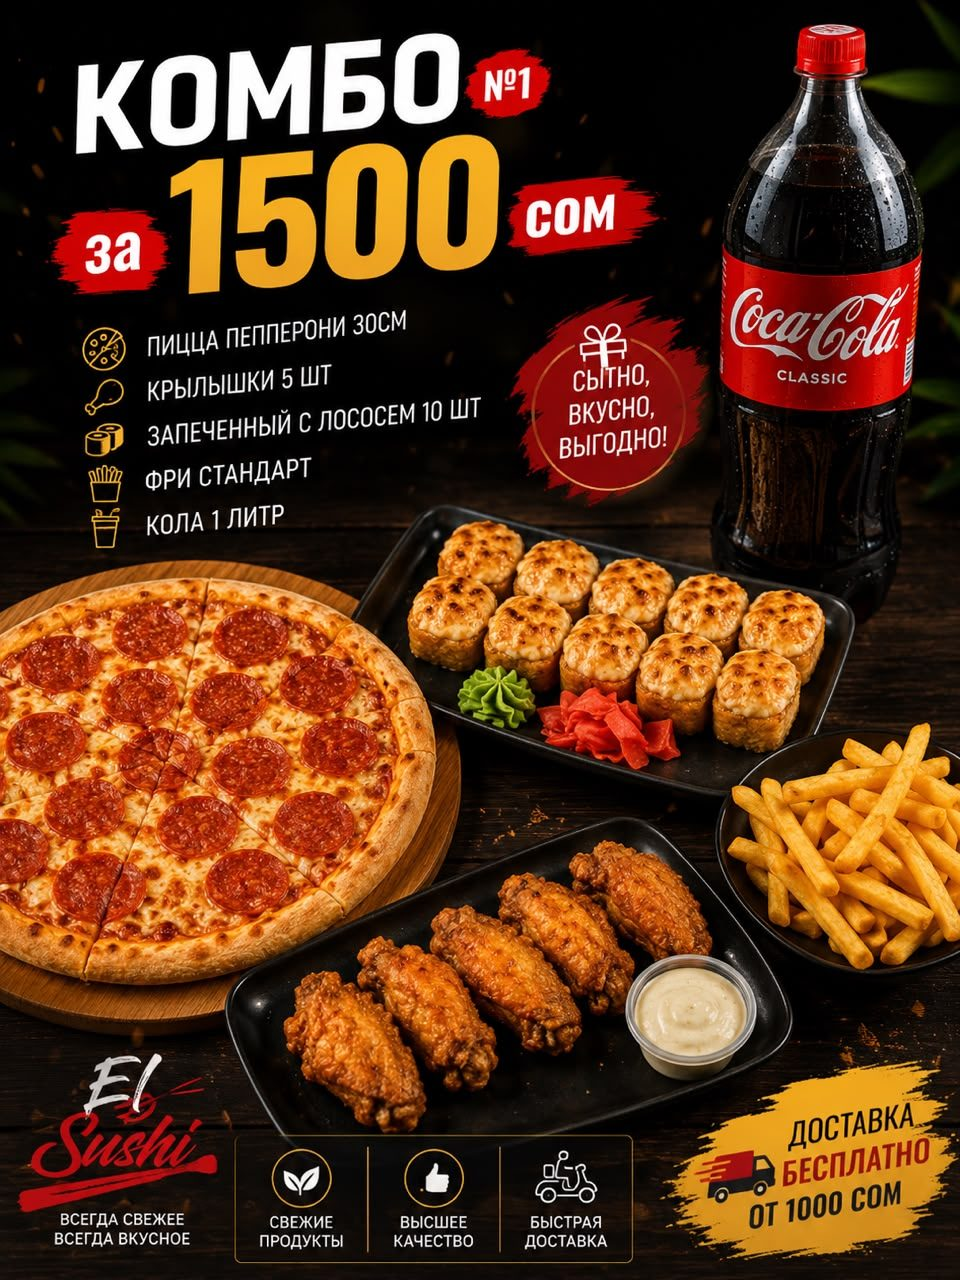
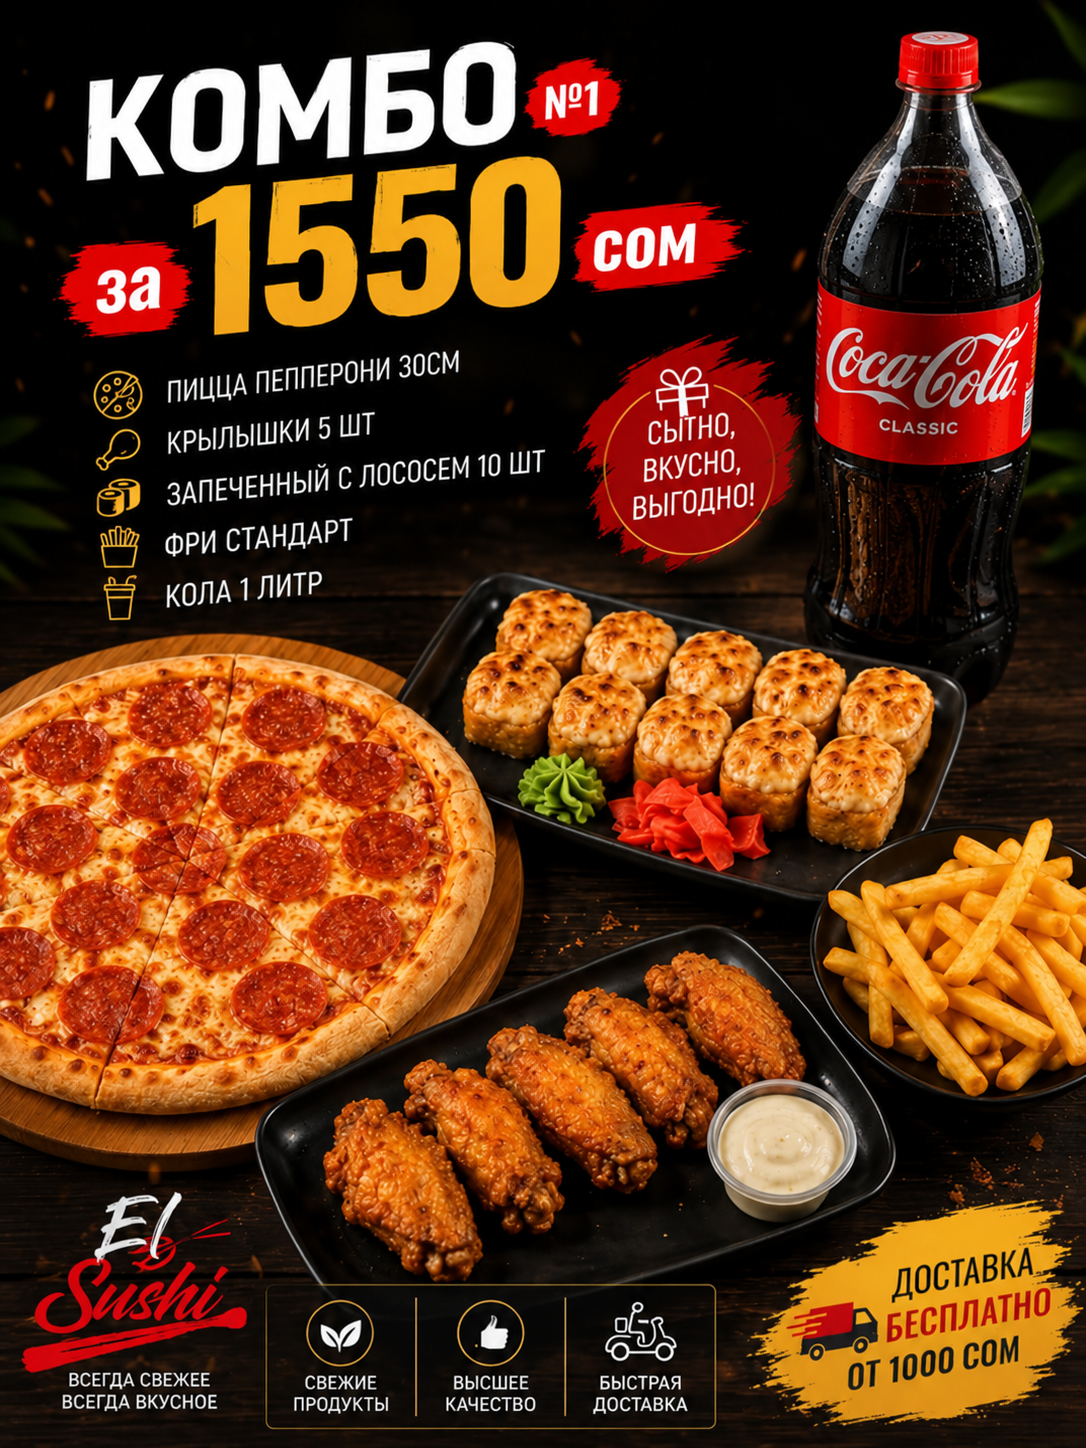
fix

diff --git a/index.html b/index.html
@@ -685,8 +685,8 @@
 
         const products = [
             // Комбо
-            { id: 501, name_kg: "Cет 1500 №1", name_ru: "Cет 1500 №1", category: "комбо", price: 1550, pieces_kg: "топтом", pieces_ru: "набор", desc_kg: "", desc_ru: "", image: "img комбо/комбо1.jpeg" },
-            { id: 502, name_kg: "Комбо 1500 №2", name_ru: "Комбо 1500 №2", category: "комбо", price: 1550, pieces_kg: "топтом", pieces_ru: "набор", desc_kg: "", desc_ru: "", image: "img комбо/комбо2.jpeg" },
+            { id: 501, name_kg: "Cет 1550 №1", name_ru: "Cет 1550 №1", category: "комбо", price: 1550, pieces_kg: "топтом", pieces_ru: "набор", desc_kg: "", desc_ru: "", image: "img комбо/комбо1.jpeg" },
+            { id: 502, name_kg: "Комбо 1550 №2", name_ru: "Комбо 1550 №2", category: "комбо", price: 1550, pieces_kg: "топтом", pieces_ru: "набор", desc_kg: "", desc_ru: "", image: "img комбо/комбо2.jpeg" },
             { id: 503, name_kg: "Комбо №3 (Хит Фастфуд)", name_ru: "Комбо №3 (Хит Фастфуд)", category: "комбо", price: 1200, pieces_kg: "топтом", pieces_ru: "набор", desc_kg: "", desc_ru: "", image: "img комбо/комбо3.jpeg" },
             { id: 504, name_kg: "Комбо 999", name_ru: "Комбо 999", category: "комбо", price: 999, pieces_kg: "топтом", pieces_ru: "набор", desc_kg: "", desc_ru: "", image: "img комбо/комбо4.jpeg" },
             { id: 505, name_kg: "Комбо 1300", name_ru: "Комбо 1300", category: "комбо", price: 1300, pieces_kg: "топтом", pieces_ru: "набор", desc_kg: "", desc_ru: "", image: "img комбо/комбо5.jpeg" },
